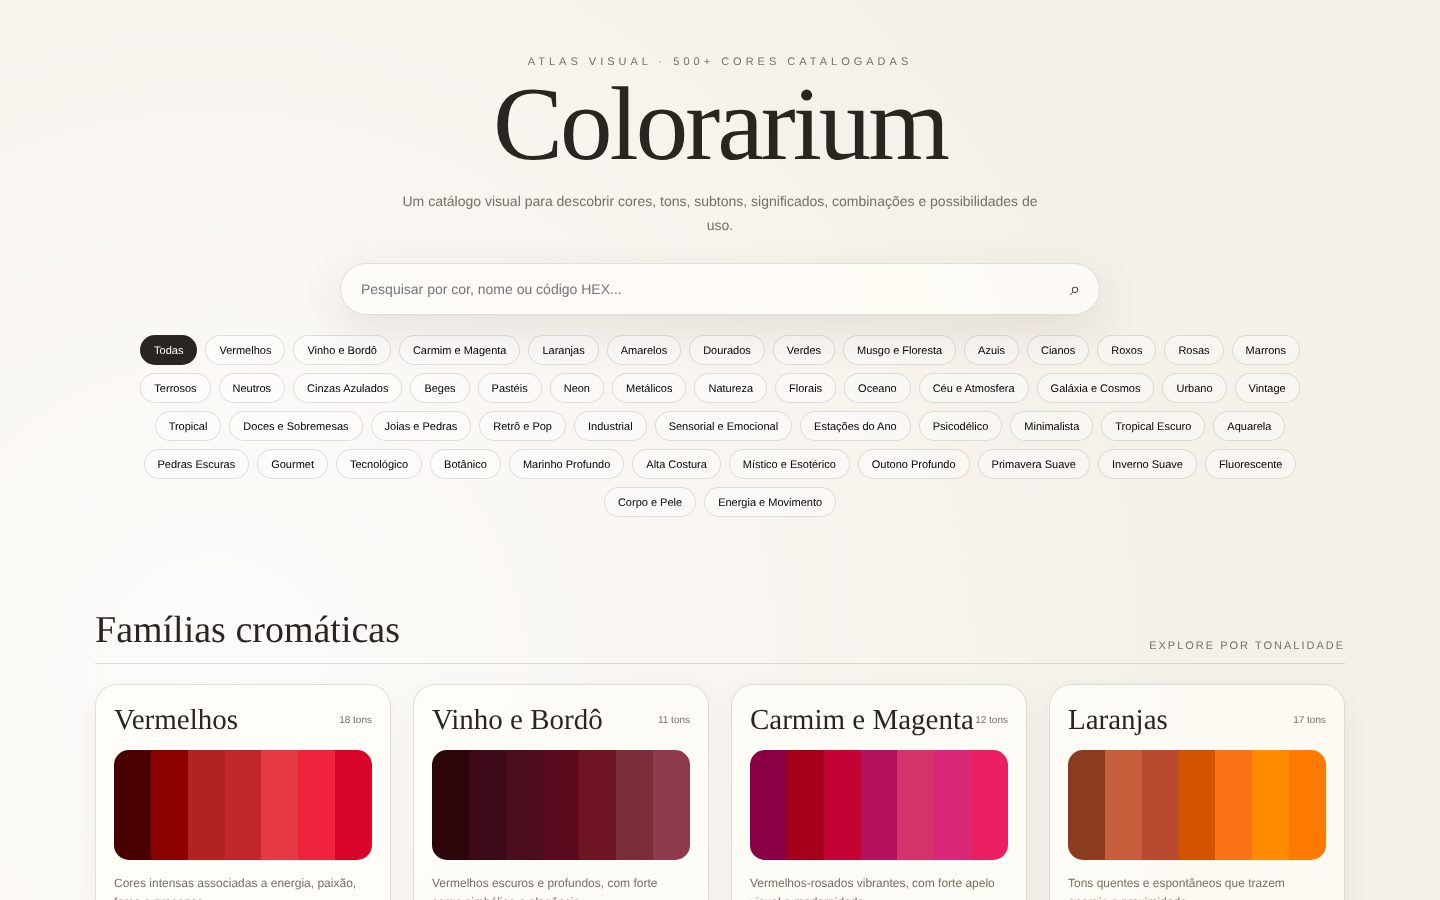
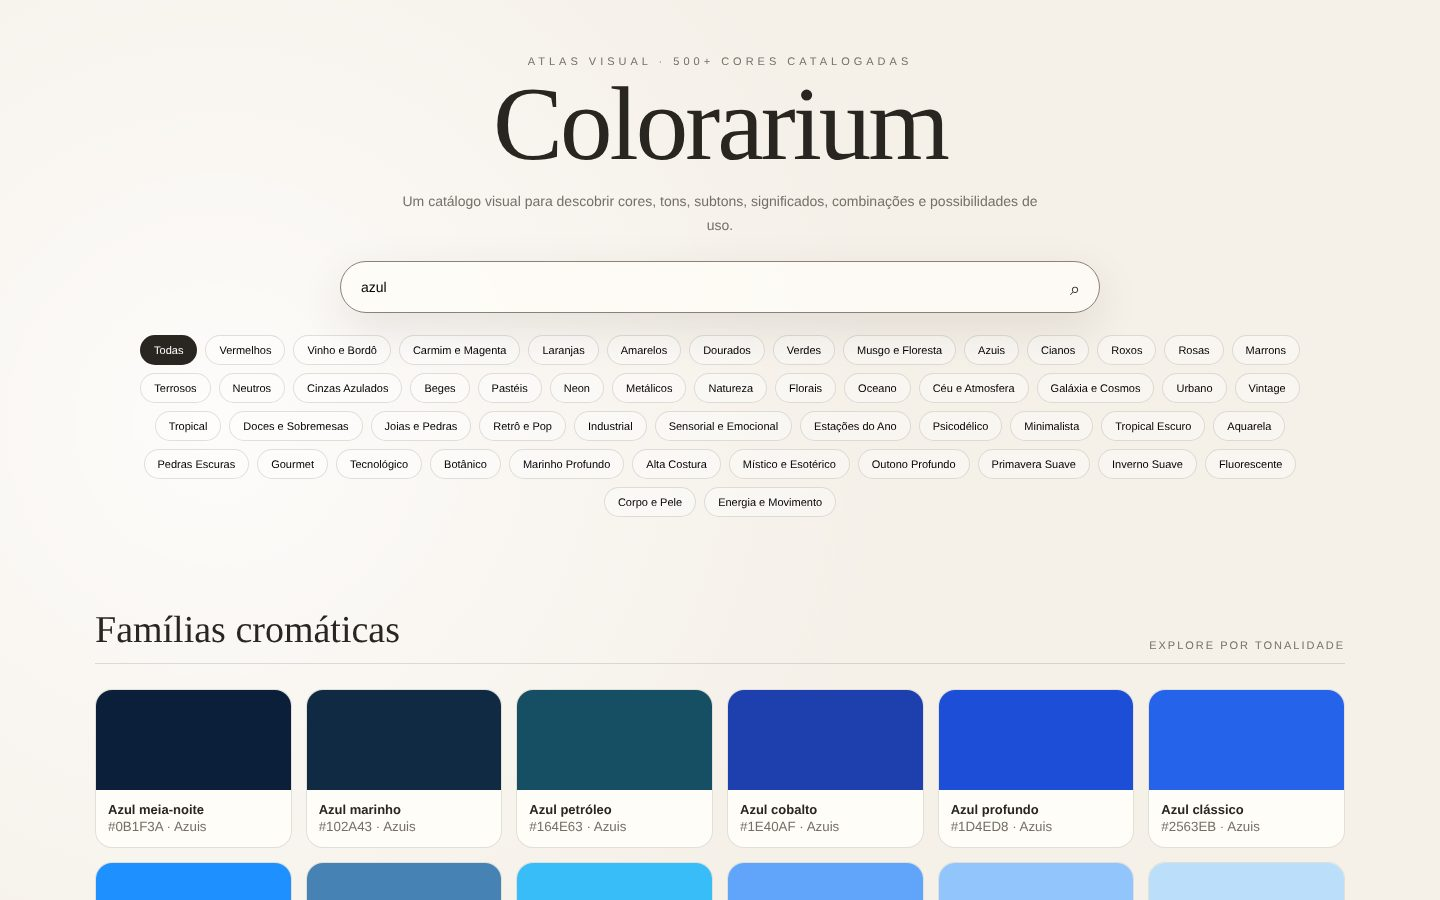
README: objetivo, funcionalidades, execução, limitações e melhorias

Changed region(s): [[0.0625, 0.7467, 0.9375, 1.0], [0.25, 0.3111, 0.4062, 0.3422]]

diff --git a/README.md b/README.md
@@ -1,25 +1,60 @@
-# Colorarium — Guia Visual de Cores
+# Colorarium: Guia Visual de Cores
 
-Catálogo interativo com mais de 500 cores organizadas por família e por tema. Para cada cor, o guia mostra os códigos, o significado, onde usar, as combinações, os tons vizinhos, a cor complementar e uma paleta sugerida. Feito para quem trabalha com design, moda, decoração ou identidade visual e precisa escolher cores com critério.
+Catálogo interativo com 500 cores organizadas por família cromática e por tema. Cada cor tem códigos, significado, sugestões de uso, combinações, tons vizinhos, cor complementar e uma paleta sugerida.
 
-**Demo:** [liviavittoria28-create.github.io/COR](https://liviavittoria28-create.github.io/COR/)
+**Demonstração:** [liviavittoria28-create.github.io/COR](https://liviavittoria28-create.github.io/COR/) · **Autora:** [Lívia Vittoria](https://github.com/liviavittoria28-create)
 
-![Tela inicial do Colorarium](docs/screenshot.jpg)
+![Busca por "azul" no Colorarium](docs/screenshot.jpg)
+
+---
+
+## Objetivo
+
+Oferecer uma referência rápida para escolher cores com critério, sem precisar alternar entre várias ferramentas.
+
+## Problema que resolve
+
+Seletores de cor mostram o código HEX, mas não ajudam a decidir: que sensação a cor transmite, com o que combina, onde usar. O Colorarium junta essas informações numa ficha por cor e permite navegar por famílias (vermelhos, azuis, terrosos…) e por temas (oceano, botânico, retrô, inverno suave…).
 
 ## Funcionalidades
 
 - Busca por nome da cor ou código HEX.
-- Filtros por família cromática (vermelhos, azuis, terrosos...) e por tema (oceano, botânico, retrô, inverno suave...).
-- Ficha de cada cor: significado, onde usar, com quais cores combina, tons da mesma família, cor complementar e paleta sugerida.
+- Filtros por família cromática e por tema (mais de 50 categorias).
+- Ficha de cada cor: códigos, significado, onde usar, combinações, tons da mesma família, cor complementar e paleta sugerida.
+- Cópia do código HEX para a área de transferência.
+- Layout responsivo.
 
 ## Tecnologias
 
-HTML, CSS e JavaScript puros, em um único arquivo. A interface é gerada a partir de um conjunto de dados de cores dentro do próprio script. Tipografia com Cormorant Garamond e DM Sans (Google Fonts).
+HTML5, CSS3 e JavaScript puros, num único arquivo. A interface é gerada a partir de um conjunto de dados de cores no próprio script. Tipografia com Cormorant Garamond e DM Sans (Google Fonts).
 
-## Como rodar
+## Estrutura de pastas
 
-Abra `index.html` no navegador.
+```
+index.html        página, estilos, dados das cores e lógica de busca e filtros
+docs/
+  screenshot.jpg  captura usada neste README
+```
 
-## Autora
+## Como executar
 
-Desenvolvido por **Lívia Vittoria** · [GitHub](https://github.com/liviavittoria28-create)
+Abra `index.html` no navegador. Não há dependências, variáveis de ambiente nem banco de dados.
+
+## Testes
+
+Não há testes automatizados. Verificação manual feita em 17/11/2026 no Chrome: a página carrega sem erros de JavaScript, a busca por "azul" filtra os resultados e o GitHub Pages está publicado.
+
+## Limitações conhecidas
+
+- Os dados das cores ficam dentro do HTML, o que deixa o arquivo grande e difícil de editar.
+- Ainda não é possível exportar uma paleta.
+
+## Melhorias futuras
+
+- Mover os dados para um arquivo JSON separado.
+- Exportar paletas (CSS, PNG).
+- Verificar contraste entre pares de cores (WCAG).
+
+---
+
+Desenvolvido por **Lívia Vittoria** · [Portfólio](https://liviavittoria28-create.github.io) · [LinkedIn](https://www.linkedin.com/in/livia-vittoria-732b8a430/)
